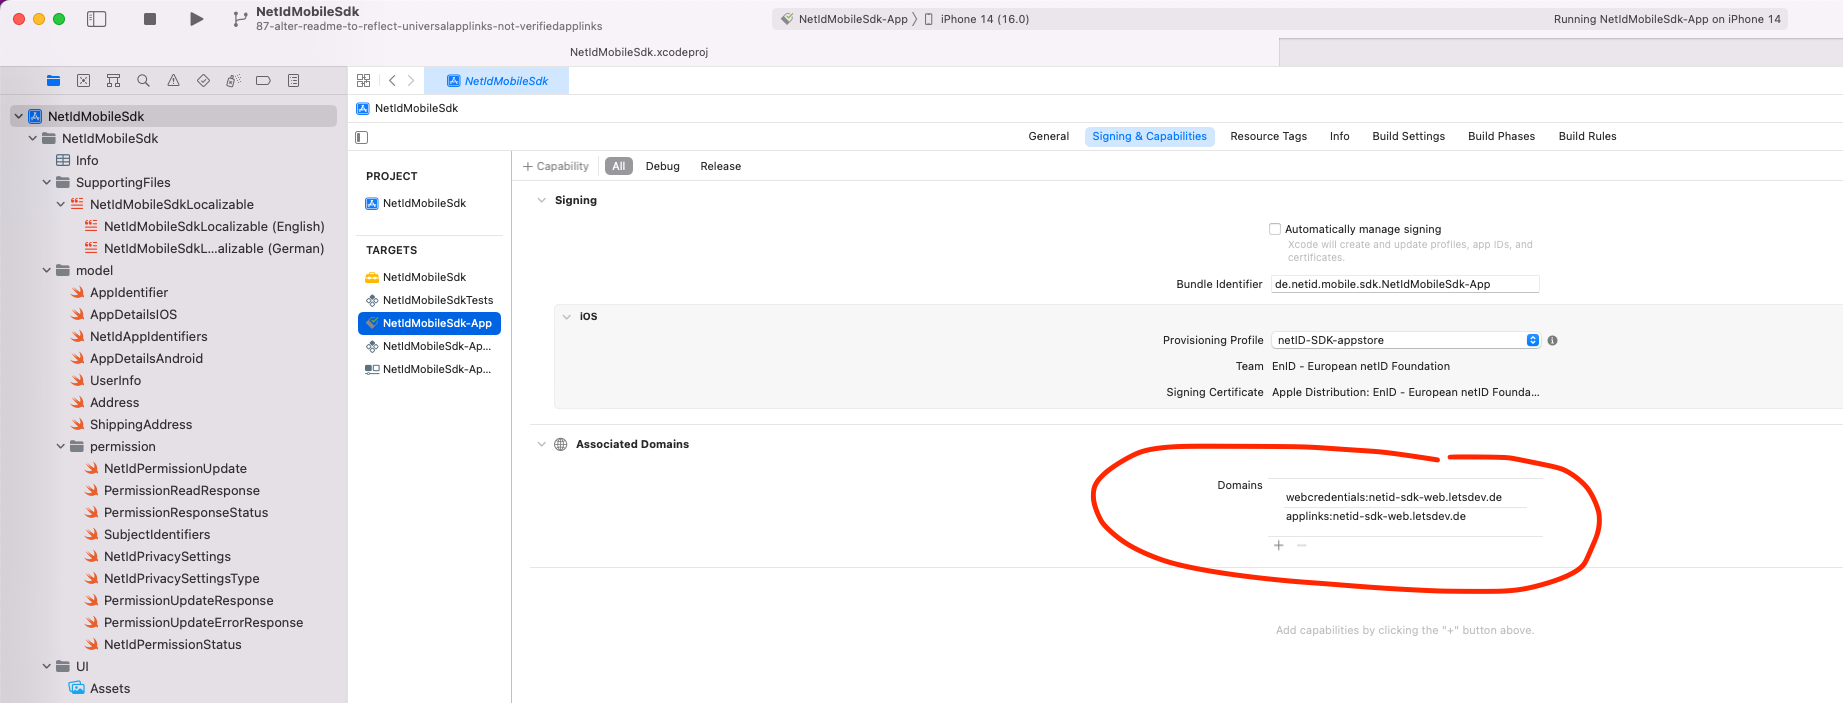
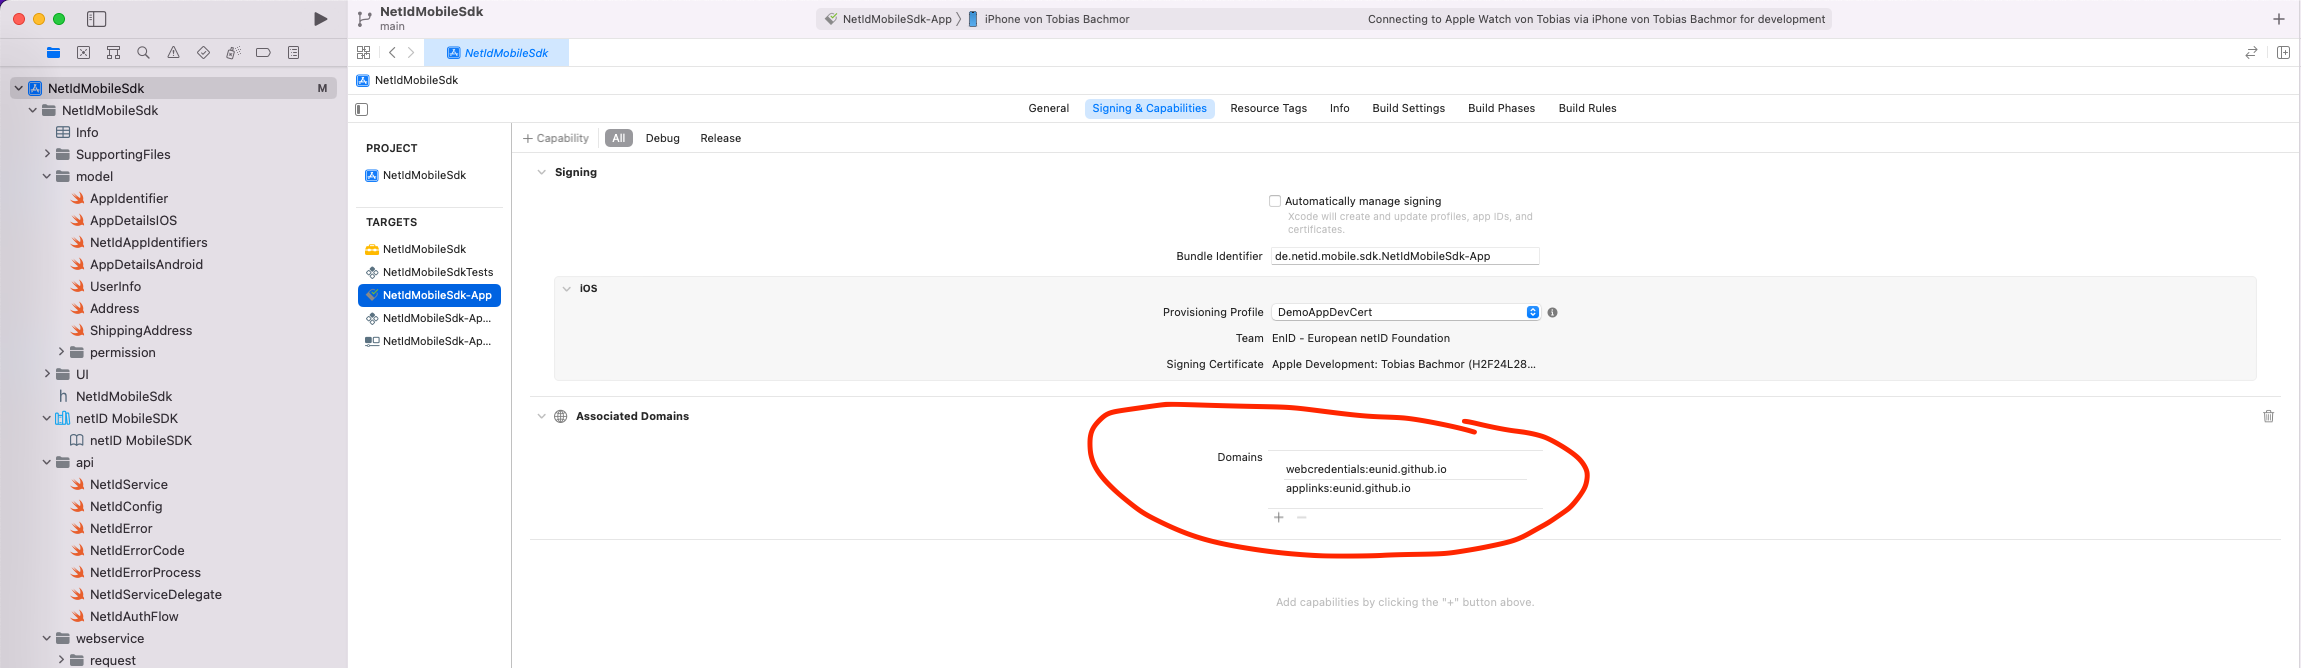
new redirectUrl and host

diff --git a/NetIdMobileSdk/NetIdMobileSdk-App/ServiceViewModel.swift b/NetIdMobileSdk/NetIdMobileSdk-App/ServiceViewModel.swift
@@ -48,8 +48,8 @@ class ServiceViewModel: NSObject, ObservableObject {
         let claims = "{\"userinfo\":{\"email\": {\"essential\": true}, \"email_verified\": {\"essential\": true}\(snippetShippingAddress)\(snippetBirthdate)}}"
                 
         let config = NetIdConfig(
-            clientId: "26e016e7-54c7-4ffd-bee0-782a9a4f87d6",
-            redirectUri: "https://netid-sdk-web.letsdev.de/redirect",
+            clientId: "2f9d690d-9a48-4e9d-a8b8-9a8866b621f2",
+            redirectUri: "https://eunid.github.io/redirectApp",
             claims: claims,
             promptWeb: "consent",
             loginLayerConfig: loginLayerConfig,

diff --git a/README.md b/README.md
@@ -20,7 +20,7 @@ var claims = Dictionary<String, String>()
 claims["claims"] = "{\"userinfo\":{\"email\": {\"essential\": true}, \"email_verified\": {\"essential\": true}}}"
 let config = NetIdConfig(
                 clientId: "XXXXXXXX-XXXX-XXXX-XXXX-XXXXXXXXXXXX",
-                redirectUri: "https://netid-sdk-web.letsdev.de/redirect",
+                redirectUri: "https://eunid.github.io/redirectApp",
                 claims: claims
                 promptWeb: nil,
                 loginLayerConfig: nil
@@ -57,7 +57,7 @@ func initializeNetIdService() {
     initializationEnabled = false
     NetIdService.sharedInstance.registerListener(self)
     let config = NetIdConfig(clientId: "XXXXXXXX-XXXX-XXXX-XXXX-XXXXXXXXXXXX",
-            redirectUri: "https://netid-sdk-web.letsdev.de/redirect"
+            redirectUri: "https://eunid.github.io/redirectApp"
             claims: nil,
             promptWeb : nil,
             loginLayerConfig: nil,

diff --git a/CHANGELOG.md b/CHANGELOG.md
@@ -42,6 +42,7 @@ and this project adheres to [Semantic Versioning](https://semver.org/spec/v2.0.0
 - Removed unused function
 - claims is now a simple string on the external interface
 - Change schemas for id apps
+- Make use of new redirectUrl and host
 
 ### Fixed
 - Url schemes error
